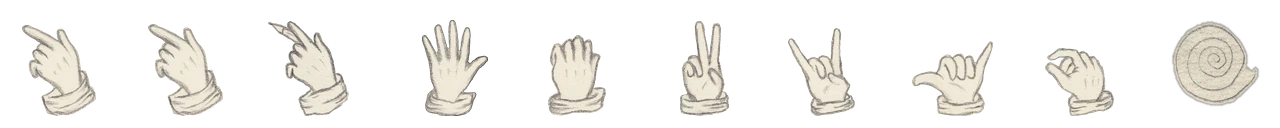
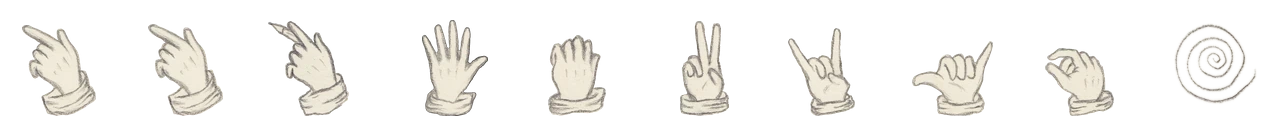
WIP (staging): swirl cursor back to its strokes with a light paper-coloured edge round them; bigger press when holding; fainter white halo while holding
Claude-Session: https://claude.ai/code/session_01KmK7bAD47hAaRb54aSaV3E

Changed region(s): [[0.9062, 0.1562, 1.0, 0.8438]]

diff --git a/index.html b/index.html
@@ -1810,16 +1810,16 @@ function hcGlint(){ if(reduce||!MAKING[vDay]) return; const e=hcShine(); e._d=nu
   requestAnimationFrame(f); setTimeout(hcWave,850); }   /* right after the glint, the press */
 /* hold me: the drawing itself gives under a finger (phones: at its centre; mouse: under the swirl), then one soft swell runs out through the paper */
 const PRESS_VS="attribute vec2 p;varying vec2 uv;void main(){uv=p*0.5+0.5;uv.y=1.0-uv.y;gl_Position=vec4(p,0.,1.);}";
-const PRESS_FS="precision mediump float;varying vec2 uv;uniform sampler2D tex;uniform vec2 c;uniform float t;uniform float hk;uniform float asp;"+
- "float H(vec2 q){ vec2 d=q-c; d.x*=asp; float r=length(d); float press=smoothstep(0.,.18,t)*(1.-smoothstep(.35,.9,t));"+
+const PRESS_FS="precision mediump float;varying vec2 uv;uniform sampler2D tex;uniform vec2 c;uniform float t;uniform float hk;uniform float asp;uniform float sz;"+
+ "float H(vec2 q){ vec2 d=q-c; d.x*=asp; float r=length(d)/sz; float press=smoothstep(0.,.18,t)*(1.-smoothstep(.35,.9,t));"+
  " float dent=-0.42*press*exp(-r*r/0.012); float front=(t-0.25)*0.55; float ring=0.;"+
  " if(t>0.25){ float x=r-front; ring=-(x/0.045)*exp(-x*x/0.0045)*0.16*smoothstep(.25,.45,t)*exp(-(t-0.25)*1.5)*(1.-smoothstep(.3,.48,r)); }"+
  " float w=0.006+0.03*hk; float hold=-0.8*hk*exp(-r*r/w)+0.09*hk*exp(-(r-1.35*sqrt(w))*(r-1.35*sqrt(w))/(0.25*w));"+   /* held: a hollow that deepens and widens, its rim lifting a little */
- " return (dent+ring+hold)*0.85; }"+
+ " return (dent+ring+hold)*0.85*sz; }"+
  "void main(){ float e=0.002; float h=H(uv); vec2 g=vec2(H(uv+vec2(e,0.))-H(uv-vec2(e,0.)),H(uv+vec2(0.,e))-H(uv-vec2(0.,e)))/(2.*e);"+
  " vec4 col=texture2D(tex,uv+g*0.0013); float light=dot(normalize(vec3(-g*0.06,1.)),normalize(vec3(-0.5,-0.6,1.0)));"+
  " float sh=clamp(1.+(light-0.788)*1.0+h*0.15,0.82,1.15);"+
- " vec2 d=uv-c; d.x*=asp; float m=(1.-smoothstep(.42,.52,length(d)))*smoothstep(.1,.17,uv.x)*smoothstep(0.,.04,1.-uv.x)*smoothstep(0.,.03,uv.y)*smoothstep(0.,.03,1.-uv.y);"+
+ " vec2 d=uv-c; d.x*=asp; float m=(1.-smoothstep(.42*sz,.52*sz,length(d)))*smoothstep(.1,.17,uv.x)*smoothstep(0.,.04,1.-uv.x)*smoothstep(0.,.03,uv.y)*smoothstep(0.,.03,1.-uv.y);"+
  " gl_FragColor=vec4(col.rgb*sh,col.a)*m; }";   /* premultiplied; only where the paper moves: the spiral side and the torn edges stay the real sheet */
 /* The press is drawn on a canvas laid exactly over the card: it copies the card's transform every frame, and while it is
    there the card's paper strips are held flat (PF), so the two pictures match to the pixel (no doubled holes or edges). */
@@ -1834,7 +1834,7 @@ function pressGL(){ if(PR!==null) return PR; PR=false;
     const tx=gl.createTexture(); gl.bindTexture(gl.TEXTURE_2D,tx);
     gl.texParameteri(gl.TEXTURE_2D,gl.TEXTURE_WRAP_S,gl.CLAMP_TO_EDGE); gl.texParameteri(gl.TEXTURE_2D,gl.TEXTURE_WRAP_T,gl.CLAMP_TO_EDGE); gl.texParameteri(gl.TEXTURE_2D,gl.TEXTURE_MIN_FILTER,gl.LINEAR);
     gl.pixelStorei(gl.UNPACK_PREMULTIPLY_ALPHA_WEBGL,true);
-    PR={cv,gl,c:gl.getUniformLocation(pr,"c"),t:gl.getUniformLocation(pr,"t"),hk:gl.getUniformLocation(pr,"hk"),asp:gl.getUniformLocation(pr,"asp"),raf:0,src:"",mode:""};
+    PR={cv,gl,c:gl.getUniformLocation(pr,"c"),t:gl.getUniformLocation(pr,"t"),hk:gl.getUniformLocation(pr,"hk"),asp:gl.getUniformLocation(pr,"asp"),sz:gl.getUniformLocation(pr,"sz"),raf:0,src:"",mode:""};
   }catch(e){ PR=false; } return PR; }
 function pressSrc(){ if(fan&&fan.spread) return `pages/${HERO[fan.front]}-torn${COARSE?"-m":""}.webp`; if(fan) return "pages/21c-wall.webp";
   const m=/url\(["']?([^"')]+)/.exec(V.card.style.getPropertyValue("--rf")||""); return m?m[1].replace(/\\/g,""):`pages/${vDay}-torn${COARSE?"-m":""}.webp`; }   /* the very picture the card shows */
@@ -1856,7 +1856,7 @@ function pressRun(mode,cx,cy,under){ const P=pressGL(); if(!P) return; const src
       if(!fan&&PF<1){ P.raf=requestAnimationFrame(f); return; }
       if(P.t0<0){ P.t0=now; if(P.under&&window.curPulse){ const m=P.mode; setTimeout(()=>{ if(P.mode===m&&P.under) curPulse(); },350); } }   /* the swirl's rings: only for a press that starts under it, a beat after it (never without it) */ cv.style.visibility="visible";
       const t=(now-P.t0)/1000; if(t>2.6){ P.raf=0; P.mode=""; cv.remove(); pressFlatBack(); return; }
-      gl.uniform2f(P.c,P.cx,P.cy); gl.uniform1f(P.t,t); gl.uniform1f(P.hk,0.);
+      gl.uniform2f(P.c,P.cx,P.cy); gl.uniform1f(P.t,t); gl.uniform1f(P.hk,0.); gl.uniform1f(P.sz,P.mode==="hold"?1.6:1.);   /* held: a bigger press */
       gl.clearColor(0,0,0,0); gl.clear(gl.COLOR_BUFFER_BIT); gl.drawArrays(gl.TRIANGLE_STRIP,0,4); P.raf=requestAnimationFrame(f); };
     P.raf=requestAnimationFrame(f); };
   const d=Math.min(2,devicePixelRatio||1), W=Math.round(vW*d), H=Math.round(vH*d), key=src+"@"+W;
@@ -1885,7 +1885,7 @@ function hcDraw(){ if(!HC.sw){ const e=hcShine(), k=HC.k;
       e.style.opacity= HC.on ? Math.min(1,k*5).toFixed(3) : k.toFixed(3); } }
   const h=hcEl(), k=HC.k, g=Math.pow(k,0.8);   /* shows early and keeps swelling to the very end */
   h.style.width=(vW*1.5).toFixed(0)+"px"; h.style.height=(vH*1.4).toFixed(0)+"px";
-  h.style.transform=`translate3d(${HC.x.toFixed(1)}px,${HC.y.toFixed(1)}px,0) translate(-50%,-50%) scale(${(0.12+0.88*g).toFixed(3)})`; h.style.opacity=(Math.min(1,k*1.8)*0.62).toFixed(3); }
+  h.style.transform=`translate3d(${HC.x.toFixed(1)}px,${HC.y.toFixed(1)}px,0) translate(-50%,-50%) scale(${(0.12+0.88*g).toFixed(3)})`; h.style.opacity=(Math.min(1,k*1.8)*0.5).toFixed(3); }
 function hcStart(x,y,done){ if(!fan) pressAt(x,y,"hold"); { const r=V.stage.getBoundingClientRect(); x=r.left+r.width/2; y=r.top+r.height/2; } HC.x=x; HC.y=y; HC.done=done; HC.on=true; HC.t0=performance.now()-HC.k*1700; cancelAnimationFrame(HC.raf);
   const f=now=>{ if(!HC.on) return; const u=Math.min(1,(now-HC.t0)/1700); HC.k=u; hcDraw();
     if(u<1){ HC.raf=requestAnimationFrame(f); return; }
@@ -2249,7 +2249,7 @@ function galPress(W,src){ if(reduce||vOpen||wave!==W||W.out) return; const P=pre
       if(vOpen||wave!==W||W.out){ end(); return; }
       W.flat=Math.min(1,(W.flat||0)+dt/250); if(W.flat<1){ P.raf=requestAnimationFrame(f); return; }
       if(t0<0) t0=now; cv.style.visibility="visible"; const t=(now-t0)/1000; if(t>2.6){ end(); return; }
-      gl.uniform2f(P.c,.5,.5); gl.uniform1f(P.t,t); gl.uniform1f(P.hk,0.);
+      gl.uniform2f(P.c,.5,.5); gl.uniform1f(P.t,t); gl.uniform1f(P.hk,0.); gl.uniform1f(P.sz,1.);
       gl.clearColor(0,0,0,0); gl.clear(gl.COLOR_BUFFER_BIT); gl.drawArrays(gl.TRIANGLE_STRIP,0,4); P.raf=requestAnimationFrame(f); };
     P.raf=requestAnimationFrame(f); };
   if(P.src===key) go(); else { const im=new Image(); im.onload=()=>{ const c2=document.createElement("canvas"); c2.width=Wp; c2.height=Hp; const x=c2.getContext("2d"); x.imageSmoothingQuality="high"; x.drawImage(im,0,0,Wp,Hp);
